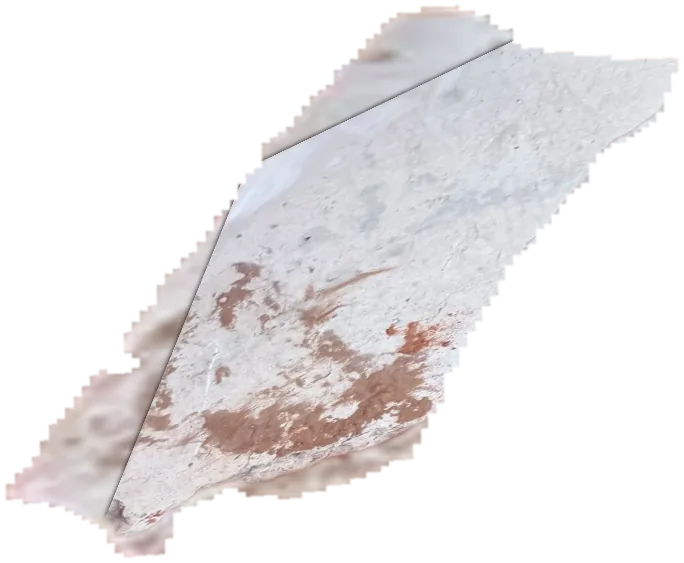
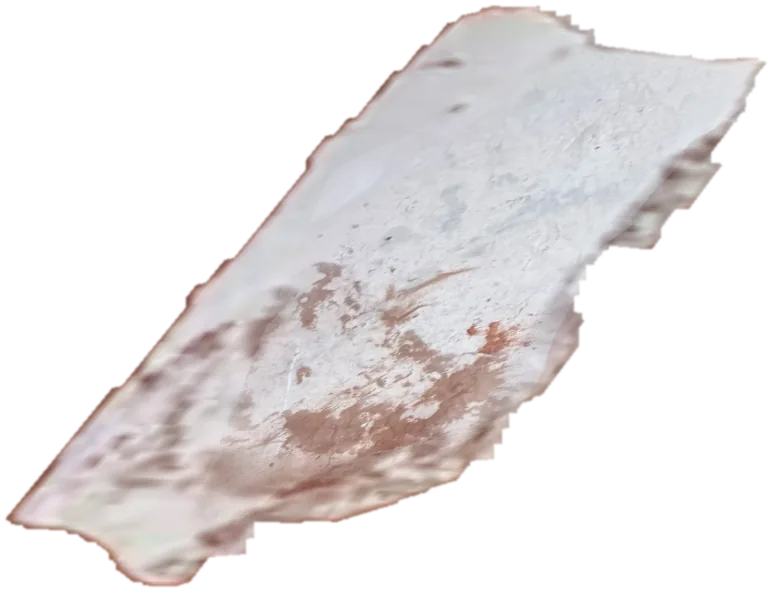
Stepping stones: full first stone, bolder selection outline, drag hint

diff --git a/stepping-stones/index.html b/stepping-stones/index.html
@@ -23,16 +23,16 @@
 /* Layout: the top-down map runs full width (like the photo from above); below it the walk-in view and a side panel. */
 :root{
   --bg:#eceee9; --surface:#f8f9f6; --ink:#1c231e; --muted:#5c665f; --line:#d3d8d0;
-  --accent:#2f5c3c; --accent-ink:#ffffff; --soil:#a8502b; --sel:#f2d36b;
+  --accent:#2f5c3c; --accent-ink:#ffffff; --soil:#a8502b; --sel:#ffd23f;
   --f-display:"Secular One","Assistant",system-ui,sans-serif;
   --f-body:"Assistant",system-ui,-apple-system,"Segoe UI",Arial,sans-serif;
 }
 @media (prefers-color-scheme:dark){:root:not([data-theme="light"]){
   --bg:#131915; --surface:#1b231d; --ink:#e3e9e3; --muted:#9aa69d; --line:#2e3a31;
-  --accent:#8cc59a; --accent-ink:#0f1a12; --soil:#d87a52; --sel:#f2d36b; color-scheme:dark}}
+  --accent:#8cc59a; --accent-ink:#0f1a12; --soil:#d87a52; --sel:#ffd23f; color-scheme:dark}}
 :root[data-theme="dark"]{
   --bg:#131915; --surface:#1b231d; --ink:#e3e9e3; --muted:#9aa69d; --line:#2e3a31;
-  --accent:#8cc59a; --accent-ink:#0f1a12; --soil:#d87a52; --sel:#f2d36b; color-scheme:dark}
+  --accent:#8cc59a; --accent-ink:#0f1a12; --soil:#d87a52; --sel:#ffd23f; color-scheme:dark}
 html,body{background:var(--bg);color:var(--ink)}
 body{font-family:var(--f-body);font-size:16px;line-height:1.5;padding-inline:16px;padding-block:20px 40px}
 .wrap{max-width:1320px;margin-inline:auto;display:grid;grid-template-columns:minmax(0,1fr);gap:18px}
@@ -61,7 +61,11 @@ button:disabled{opacity:.4;cursor:default}
 .stone{position:absolute;user-select:none;-webkit-user-drag:none;touch-action:none;cursor:grab;
   filter:drop-shadow(0 3px 3px rgba(0,0,0,.45))}
 .stone.dragging{cursor:grabbing;filter:drop-shadow(0 12px 10px rgba(0,0,0,.45))}
-.stone.sel{filter:drop-shadow(0 0 0 var(--sel)) drop-shadow(0 0 5px var(--sel)) drop-shadow(0 4px 4px rgba(0,0,0,.5))}
+.stone.sel{filter:drop-shadow(var(--ow) 0 0 var(--sel)) drop-shadow(calc(var(--ow)*-1) 0 0 var(--sel)) drop-shadow(0 var(--ow) 0 var(--sel)) drop-shadow(0 calc(var(--ow)*-1) 0 var(--sel))
+  drop-shadow(var(--ol) 0 0 #1b1b14) drop-shadow(calc(var(--ol)*-1) 0 0 #1b1b14) drop-shadow(0 var(--ol) 0 #1b1b14) drop-shadow(0 calc(var(--ol)*-1) 0 #1b1b14);
+  animation:pulse 1.4s ease-in-out infinite}
+@keyframes pulse{50%{opacity:.82}}
+@media (prefers-reduced-motion:reduce){.stone.sel{animation:none}}
 .ghost{position:absolute;pointer-events:none;opacity:.33;filter:grayscale(1) brightness(1.6) contrast(.6)}
 #ghosts[hidden]{display:none}
 #rotHandle{position:absolute;border-radius:50%;background:var(--sel);border:2px solid #fff;box-shadow:0 2px 6px rgba(0,0,0,.5);
@@ -69,19 +73,26 @@ button:disabled{opacity:.4;cursor:default}
 #rotHandle svg{width:62%;height:62%}
 #rotLine{position:absolute;background:var(--sel);pointer-events:none;transform-origin:50% 100%}
 .hint{color:var(--muted);font-size:14px;margin:8px 2px 0}
+.callout{display:flex;align-items:center;gap:10px;margin-top:10px;padding:10px 14px;border-radius:10px;background:var(--sel);color:#2b2300;font-weight:700;font-size:17px}
+.callout svg{flex:none;width:26px;height:26px}
+.mapwrap{position:relative}
+.onmap{position:absolute;top:50%;left:50%;transform:translate(-50%,-50%);background:rgba(20,20,14,.82);color:#fff;font-weight:700;font-size:17px;padding:10px 18px;border-radius:999px;pointer-events:none;white-space:nowrap;box-shadow:0 4px 14px rgba(0,0,0,.35);direction:rtl}
+.onmap.gone{opacity:0;transition:opacity .4s}
 
 /* lower row */
 .lower{display:grid;grid-template-columns:minmax(0,520px) minmax(0,1fr);gap:18px;align-items:start}
 @media (max-width:860px){.lower{grid-template-columns:minmax(0,1fr)}}
-.viewbox{position:relative;width:100%;aspect-ratio:3/4;max-width:100%;overflow:hidden;border-radius:10px;margin-top:10px;background:#222;direction:ltr}
-#view{position:absolute;left:0;top:0;width:1500px;height:2000px}
+.viewbox{position:relative;width:100%;aspect-ratio:1780/2420;max-width:100%;overflow:hidden;border-radius:10px;margin-top:10px;background:#222;direction:ltr}
+#view{position:absolute;left:0;top:0}
+#frame{position:absolute;pointer-events:none;outline:3px dashed rgba(255,255,255,.75);box-shadow:0 0 0 3000px rgba(16,16,10,.32)}
+.vnote{color:var(--muted);font-size:14px;margin:8px 2px 0}
 #view>img{position:absolute;inset:0;width:100%;height:100%;pointer-events:none}
 .clip{position:absolute;inset:0}
 .layer{position:absolute;left:0;top:0;transform-origin:0 0;pointer-events:none}
 .layer img{position:absolute;max-width:none}
 .l-shadow{filter:brightness(0) blur(4px);opacity:.42}
 .l-side{filter:brightness(.6) saturate(.65)}
-.l-top img.sel{filter:brightness(1.08) drop-shadow(0 0 8px rgba(255,236,150,.95))}
+.l-top img.sel{filter:drop-shadow(6px 0 0 #ffd23f) drop-shadow(-6px 0 0 #ffd23f) drop-shadow(0 6px 0 #ffd23f) drop-shadow(0 -6px 0 #ffd23f) drop-shadow(2px 0 0 #1b1b14) drop-shadow(-2px 0 0 #1b1b14) drop-shadow(0 2px 0 #1b1b14) drop-shadow(0 -2px 0 #1b1b14)}
 .side h2{font-family:var(--f-display);font-weight:400;font-size:22px;margin:0 0 6px}
 .side{display:grid;gap:14px;align-content:start}
 .side p,.side li{margin:0;color:var(--muted)}
@@ -103,7 +114,7 @@ kbd{font-family:ui-monospace,Menlo,monospace;font-size:13px;border:1px solid var
 <div class="wrap" dir="rtl">
   <header>
     <h1>שביל אבני המדרך</h1>
-    <p>גררי אבנים במפה כמו בפאזל וסובבי אותן. ההדמיה למטה מתעדכנת מיד ומראה את השביל מהכניסה, עם פינת הישיבה בקצה.</p>
+    <p>גוררים אבנים במפה כמו בפאזל ומסובבים אותן. ההדמיה למטה מתעדכנת מיד ומראה את השביל מהכניסה, עם פינת הישיבה בקצה.</p>
   </header>
 
   <section class="card" aria-label="מפה מלמעלה">
@@ -118,6 +129,8 @@ kbd{font-family:ui-monospace,Menlo,monospace;font-size:13px;border:1px solid var
       <button class="icon" id="zoomOut" aria-label="הקטנה">−</button>
       <button class="icon" id="zoomIn" aria-label="הגדלה">+</button>
     </div>
+    <div class="callout" role="note"><svg viewBox="0 0 24 24" fill="none" stroke="currentColor" stroke-width="2" stroke-linecap="round" stroke-linejoin="round" aria-hidden="true"><path d="M9 11V5a2 2 0 0 1 4 0v5"/><path d="M13 10V8.5a2 2 0 0 1 4 0V11"/><path d="M17 11a2 2 0 0 1 4 0v3a7 7 0 0 1-7 7h-1.5a6 6 0 0 1-4.7-2.3L4 14.5a1.8 1.8 0 0 1 2.7-2.4L9 14"/></svg>לחצו על אבן וגררו אותה כדי להזיז. הידית הצהובה מסובבת אותה.</div>
+    <div class="mapwrap">
     <div class="map-scroll" id="mapScroll">
       <div class="sizer" id="planSizer">
         <div class="stage" id="plan">
@@ -128,6 +141,8 @@ kbd{font-family:ui-monospace,Menlo,monospace;font-size:13px;border:1px solid var
           <div id="rotHandle" hidden title="גררי כדי לסובב"><svg viewBox="0 0 24 24" fill="none" stroke="#3b2f00" stroke-width="2.6" stroke-linecap="round"><path d="M20 12a8 8 0 1 1-2.6-5.9"/><path d="M20 4v5h-5"/></svg></div>
         </div>
       </div>
+    </div>
+    <div class="onmap" id="onmap">לחצו על אבן וגררו אותה</div>
     </div>
     <p class="hint">משיח (גדר חיה) למעלה, קיר הבית למטה. הכניסה לשביל משמאל ופינת הישיבה מימין.</p>
   </section>
@@ -143,10 +158,12 @@ kbd{font-family:ui-monospace,Menlo,monospace;font-size:13px;border:1px solid var
       <div class="viewbox" id="viewBox">
         <div id="view">
           <img id="viewBg" src="img/view_bg.webp" alt="השביל מהכניסה, עם האבנים בסידור החדש">
+          <div id="frame"></div>
           <div class="clip" id="clip"></div>
           <img id="viewOrig" src="img/view_orig.webp" alt="התמונה המקורית של השביל" hidden>
         </div>
       </div>
+      <p class="vnote">האזור הכהה מסביב הוא השלמה מעבר לשולי התמונה המקורית, כדי שאפשר יהיה לראות את האבן הראשונה במלואה.</p>
     </section>
 
     <aside class="card side">
@@ -161,7 +178,7 @@ kbd{font-family:ui-monospace,Menlo,monospace;font-size:13px;border:1px solid var
       </div>
       <div>
         <h2>גרסאות</h2>
-        <p style="margin-bottom:10px">שמרי כמה סידורים והשווי ביניהם. הסידור הנוכחי נשמר אוטומטית בדפדפן הזה.</p>
+        <p style="margin-bottom:10px">אפשר לשמור כמה סידורים ולהשוות ביניהם. הסידור הנוכחי נשמר אוטומטית בדפדפן הזה.</p>
         <div class="bar" style="margin-bottom:10px"><button class="primary" id="saveVer">שמירת הסידור כגרסה</button></div>
         <div class="versions" id="versions"></div>
       </div>
@@ -172,7 +189,7 @@ kbd{font-family:ui-monospace,Menlo,monospace;font-size:13px;border:1px solid var
 <div class="toast" id="toast" role="status" aria-live="polite"></div>
 
 <script>
-const META = {"plan":{"w":2800,"h":660,"strip":[70,590]},"view":{"w":1500,"h":2000},"Hp":[[6.703394202724966,14.013624150743192,-5273.620486541825],[1.9233164782307344,0.6879669924680555,4361.4651230562],[0.005249335274911897,0.002085337954227834,1.0]],"yh":374.9522826303421,"soil":[[0,1080],[400,850],[700,720],[950,612],[1290,606],[1310,800],[1340,1100],[1500,1370],[1500,2000],[0,2000]],"stones":[{"id":1,"src":"img/s01.webp","w":205.0,"h":251.5,"ox":92.31567400558333,"oy":126.84953227927735,"x":991.3156740055833,"y":309.84953227927735,"tex":"p2"},{"id":2,"src":"img/s02.webp","w":182.0,"h":149.5,"ox":82.58557182736945,"oy":68.00901966053112,"x":645.5855718273694,"y":268.0090196605311,"tex":"p2"},{"id":3,"src":"img/s03.webp","w":123.5,"h":125.5,"ox":58.4586879795977,"oy":70.59272491290389,"x":1493.9586879795977,"y":240.5927249129039,"tex":"p1"},{"id":4,"src":"img/s04.webp","w":342.0,"h":281.5,"ox":170.58141475480096,"oy":138.01137824733166,"x":199.58141475480096,"y":357.51137824733166,"tex":"p2"},{"id":5,"src":"img/s05.webp","w":127.0,"h":75.5,"ox":60.55699905842266,"oy":34.80576604044299,"x":1182.0569990584227,"y":239.805766040443,"tex":"p2"},{"id":6,"src":"img/s06.webp","w":219.0,"h":180.0,"ox":122.07436540391188,"oy":93.06769706147423,"x":810.5743654039119,"y":316.06769706147423,"tex":"p2"},{"id":7,"src":"img/s07.webp","w":230.0,"h":209.0,"ox":114.00527466507998,"oy":110.89935754862654,"x":412.00527466508,"y":348.39935754862654,"tex":"p2"},{"id":8,"src":"img/s08.webp","w":159.5,"h":192.0,"ox":82.91387480828712,"oy":103.51434011801706,"x":1315.9138748082871,"y":326.01434011801706,"tex":"p2"},{"id":9,"src":"img/s09.webp","w":112.5,"h":207.5,"ox":53.53850452193342,"oy":98.63707766330765,"x":1602.5385045219334,"y":316.13707766330765,"tex":"p1"},{"id":10,"src":"img/s10.webp","w":86.5,"h":87.5,"ox":44.61213669259632,"oy":46.610159061883195,"x":1941.6121366925963,"y":252.1101590618832,"tex":"p1"},{"id":11,"src":"img/s11.webp","w":111.0,"h":112.0,"ox":53.7807878197018,"oy":53.3747467623611,"x":2548.280787819702,"y":255.3747467623611,"tex":"p1"},{"id":12,"src":"img/s12.webp","w":96.5,"h":180.5,"ox":49.204678325941586,"oy":90.4665088154477,"x":1823.2046783259416,"y":323.4665088154477,"tex":"p1"},{"id":13,"src":"img/s13.webp","w":102.0,"h":82.0,"ox":52.93785923387213,"oy":37.54591499767946,"x":2057.437859233872,"y":266.04591499767946,"tex":"p1"},{"id":14,"src":"img/s14.webp","w":129.0,"h":196.0,"ox":61.12393298567122,"oy":95.32054211452117,"x":2321.123932985671,"y":313.3205421145212,"tex":"p1"},{"id":15,"src":"img/s15.webp","w":85.5,"h":158.5,"ox":40.9601621643983,"oy":73.03157103655593,"x":1709.9601621643983,"y":327.03157103655593,"tex":"p1"},{"id":16,"src":"img/s16.webp","w":153.0,"h":144.5,"ox":77.98422818362656,"oy":71.73356136344734,"x":1143.9842281836266,"y":363.73356136344734,"tex":"p2"},{"id":17,"src":"img/s17.webp","w":118.0,"h":136.5,"ox":59.6934404204917,"oy":61.46124081254243,"x":2180.6934404204917,"y":301.9612408125424,"tex":"p1"},{"id":18,"src":"img/s18.webp","w":133.0,"h":135.5,"ox":65.64198636713718,"oy":67.56125796918525,"x":1454.1419863671372,"y":367.56125796918525,"tex":"p1"},{"id":19,"src":"img/s19.webp","w":200.0,"h":144.0,"ox":94.837210656573,"oy":66.62747610035422,"x":553.837210656573,"y":426.6274761003542,"tex":"p2"},{"id":20,"src":"img/s20.webp","w":139.0,"h":129.5,"ox":66.41018494150285,"oy":67.59179087813317,"x":2466.410184941503,"y":320.09179087813317,"tex":"p1"},{"id":21,"src":"img/s21.webp","w":80.5,"h":139.0,"ox":39.64187816983235,"oy":68.44102618403758,"x":1931.1418781698324,"y":373.4410261840376,"tex":"p1"},{"id":22,"src":"img/s22.webp","w":128.0,"h":128.0,"ox":50.45498289136003,"oy":63.760191670230995,"x":2059.45498289136,"y":367.260191670231,"tex":"p1"},{"id":23,"src":"img/s23.webp","w":113.0,"h":123.5,"ox":55.561954443034665,"oy":59.85277614728693,"x":2596.0619544430347,"y":376.35277614728693,"tex":"p1"}]};
+const META = {"plan":{"w":2800,"h":660,"strip":[70,590]},"view":{"w":1780,"h":2420,"frame":[280,0,1500,2000]},"Hp":[[8.173208079700297,14.597518777926986,-4993.620486541825],[1.9233164782307344,0.6879669924680555,4361.4651230562],[0.005249335274911897,0.002085337954227834,1.0]],"yh":374.9522826303421,"soil":[[0,1241],[280,1080],[680,850],[980,720],[1230,612],[1570,606],[1590,800],[1620,1100],[1780,1370],[1780,2420],[0,2420]],"stones":[{"id":1,"src":"img/s01.webp","w":205.0,"h":251.5,"ox":92.31567400558333,"oy":126.84953227927735,"x":991.3156740055833,"y":309.84953227927735,"tex":"p2"},{"id":2,"src":"img/s02.webp","w":182.0,"h":149.5,"ox":82.58557182736945,"oy":68.00901966053112,"x":645.5855718273694,"y":268.0090196605311,"tex":"p2"},{"id":3,"src":"img/s03.webp","w":123.5,"h":125.5,"ox":58.4586879795977,"oy":70.59272491290389,"x":1493.9586879795977,"y":240.5927249129039,"tex":"p1"},{"id":4,"src":"img/s04.webp","w":386.0,"h":296.0,"ox":197.15391998035716,"oy":146.55121942317436,"x":185.65391998035716,"y":366.05121942317436,"tex":"p2"},{"id":5,"src":"img/s05.webp","w":127.0,"h":75.5,"ox":60.55699905842266,"oy":34.80576604044299,"x":1182.0569990584227,"y":239.805766040443,"tex":"p2"},{"id":6,"src":"img/s06.webp","w":219.0,"h":180.0,"ox":122.07436540391188,"oy":93.06769706147423,"x":810.5743654039119,"y":316.06769706147423,"tex":"p2"},{"id":7,"src":"img/s07.webp","w":230.0,"h":209.0,"ox":114.00527466507998,"oy":110.89935754862654,"x":412.00527466508,"y":348.39935754862654,"tex":"p2"},{"id":8,"src":"img/s08.webp","w":159.5,"h":192.0,"ox":82.91387480828712,"oy":103.51434011801706,"x":1315.9138748082871,"y":326.01434011801706,"tex":"p2"},{"id":9,"src":"img/s09.webp","w":112.5,"h":207.5,"ox":53.53850452193342,"oy":98.63707766330765,"x":1602.5385045219334,"y":316.13707766330765,"tex":"p1"},{"id":10,"src":"img/s10.webp","w":86.5,"h":87.5,"ox":44.61213669259632,"oy":46.610159061883195,"x":1941.6121366925963,"y":252.1101590618832,"tex":"p1"},{"id":11,"src":"img/s11.webp","w":111.0,"h":112.0,"ox":53.7807878197018,"oy":53.3747467623611,"x":2548.280787819702,"y":255.3747467623611,"tex":"p1"},{"id":12,"src":"img/s12.webp","w":96.5,"h":180.5,"ox":49.204678325941586,"oy":90.4665088154477,"x":1823.2046783259416,"y":323.4665088154477,"tex":"p1"},{"id":13,"src":"img/s13.webp","w":102.0,"h":82.0,"ox":52.93785923387213,"oy":37.54591499767946,"x":2057.437859233872,"y":266.04591499767946,"tex":"p1"},{"id":14,"src":"img/s14.webp","w":129.0,"h":196.0,"ox":61.12393298567122,"oy":95.32054211452117,"x":2321.123932985671,"y":313.3205421145212,"tex":"p1"},{"id":15,"src":"img/s15.webp","w":85.5,"h":158.5,"ox":40.9601621643983,"oy":73.03157103655593,"x":1709.9601621643983,"y":327.03157103655593,"tex":"p1"},{"id":16,"src":"img/s16.webp","w":153.0,"h":144.5,"ox":77.98422818362656,"oy":71.73356136344734,"x":1143.9842281836266,"y":363.73356136344734,"tex":"p2"},{"id":17,"src":"img/s17.webp","w":118.0,"h":136.5,"ox":59.6934404204917,"oy":61.46124081254243,"x":2180.6934404204917,"y":301.9612408125424,"tex":"p1"},{"id":18,"src":"img/s18.webp","w":133.0,"h":135.5,"ox":65.64198636713718,"oy":67.56125796918525,"x":1454.1419863671372,"y":367.56125796918525,"tex":"p1"},{"id":19,"src":"img/s19.webp","w":200.0,"h":144.0,"ox":94.837210656573,"oy":66.62747610035422,"x":553.837210656573,"y":426.6274761003542,"tex":"p2"},{"id":20,"src":"img/s20.webp","w":139.0,"h":129.5,"ox":66.41018494150285,"oy":67.59179087813317,"x":2466.410184941503,"y":320.09179087813317,"tex":"p1"},{"id":21,"src":"img/s21.webp","w":80.5,"h":139.0,"ox":39.64187816983235,"oy":68.44102618403758,"x":1931.1418781698324,"y":373.4410261840376,"tex":"p1"},{"id":22,"src":"img/s22.webp","w":128.0,"h":128.0,"ox":50.45498289136003,"oy":63.760191670230995,"x":2059.45498289136,"y":367.260191670231,"tex":"p1"},{"id":23,"src":"img/s23.webp","w":113.0,"h":123.5,"ox":55.561954443034665,"oy":59.85277614728693,"x":2596.0619544430347,"y":376.35277614728693,"tex":"p1"}]};
 (function(){
 const P = META.plan, V = META.view, H = META.Hp, YH = META.yh;
 const KEY='stones-layout-v1', VKEY='stones-versions-v1';
@@ -222,7 +239,7 @@ function fitZoom(){return scroller.clientWidth/P.w}
 function setZoom(z,keepCenter){
   const fz=fitZoom(); z=Math.max(fz,Math.min(1.2,z));
   const cx=(scroller.scrollLeft+scroller.clientWidth/2)/zoom;
-  zoom=z; plan.style.transform=`scale(${z})`; sizer.style.width=P.w*z+'px'; sizer.style.height=P.h*z+'px';
+  zoom=z; plan.style.transform=`scale(${z})`; plan.style.setProperty('--ow',(3.5/z)+'px'); plan.style.setProperty('--ol',(1.5/z)+'px'); sizer.style.width=P.w*z+'px'; sizer.style.height=P.h*z+'px';
   if(keepCenter) scroller.scrollLeft=cx*z-scroller.clientWidth/2;
   updateHandle();
 }
@@ -232,6 +249,8 @@ $('zoomOut').onclick=()=>setZoom(zoom/1.35,true);
 
 // ----- view scaling
 const view=$('view'), vbox=$('viewBox');
+view.style.width=V.w+'px'; view.style.height=V.h+'px'; vbox.style.aspectRatio=V.w+'/'+V.h;
+if(V.frame){const f=$('frame');Object.assign(f.style,{left:V.frame[0]+'px',top:V.frame[1]+'px',width:V.frame[2]+'px',height:V.frame[3]+'px'})}
 function fitView(){view.style.transform=`scale(${vbox.clientWidth/V.w})`;view.style.transformOrigin='0 0'}
 new ResizeObserver(()=>{fitView();const fz=fitZoom();if(zoom<fz||Math.abs(zoom-fz)<0.002)setZoom(fz,false);else updateHandle()}).observe(document.body);
 
@@ -265,7 +284,7 @@ function toPlan(e){const r=plan.getBoundingClientRect();return{x:(e.clientX-r.le
 let drag=null, raf=0;
 stonesEl.addEventListener('pointerdown',e=>{
   const el=e.target.closest('.stone'); if(!el)return;
-  const i=+el.dataset.i; e.preventDefault(); select(i); snapshot();
+  const i=+el.dataset.i; e.preventDefault(); select(i); snapshot(); $('onmap').classList.add('gone');
   const p=toPlan(e); drag={i,dx:state[i].x-p.x,dy:state[i].y-p.y,moved:false};
   el.setPointerCapture(e.pointerId); el.classList.add('dragging');
 });
